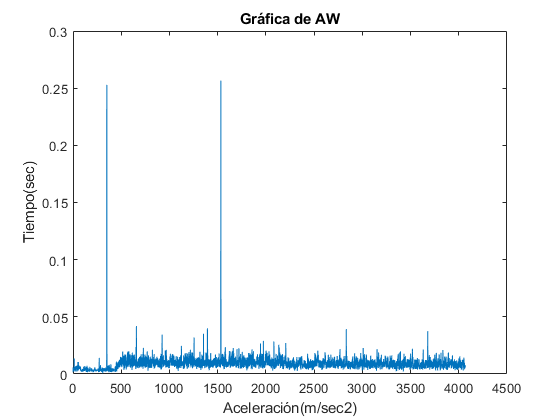
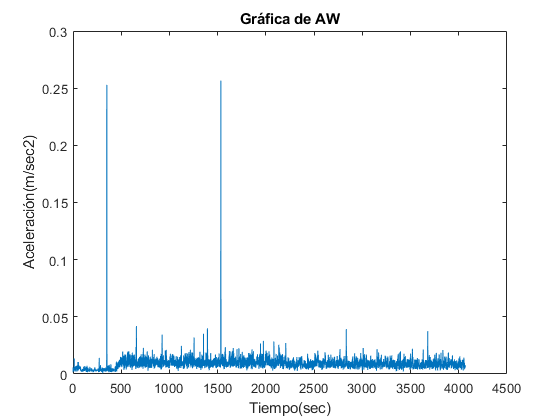
fixed plots

Changed region(s): [[0.0304, 0.3095, 0.0607, 0.65], [0.3946, 0.9595, 0.6375, 0.9905]]

diff --git a/src/MatLab Script/th_weighted.m b/src/MatLab Script/th_weighted.m
@@ -173,8 +173,8 @@ resultAWValue = [];
 figure;
 plot(resultAWTime, resultAWValue);
 title('Gráfica de AW');
-xlabel('Aceleración(m/sec2)');
-ylabel('Tiempo(sec)');
+xlabel('Tiempo(sec)');
+ylabel('Aceleración(m/sec2)');
 %
 end
 disp(' ');
